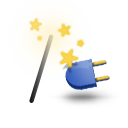
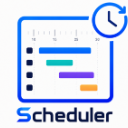
fix: UnrealGame打包编译修复 + DSL全量同步
- SSchedulerTrackTitle.h: 补全 Slate widget 头文件(SImage/STextBlock/SButton/Layout)
- SchedulerSubsystem.h: 显式 include Layout/Margin.h
- USchedulerRuler.cpp: include Engine/World.h(UWorld完整类型)
- USchedulerWidget.cpp: GetPaletteCategory 添加 WITH_EDITOR 守卫
- DSL: 删除废弃 ASchedulerTaskPool / 更新目录结构 / 补全 Playhead+TrackPanel
- DSL: DeleteTask→DestroyTask / 更新文件路径 / 添加打包验证记录
- .gitignore: 新增 Build/ 忽略规则
- 蓝图资产同步

diff --git a/Plugins/Scheduler/Source/Scheduler/Public/UI/Track/SSchedulerTrackTitle.h b/Plugins/Scheduler/Source/Scheduler/Public/UI/Track/SSchedulerTrackTitle.h
@@ -1,6 +1,10 @@
 #pragma once
 
 #include "CoreMinimal.h"
+#include "Layout/Margin.h"
+#include "Widgets/Images/SImage.h"
+#include "Widgets/Input/SButton.h"
+#include "Widgets/Text/STextBlock.h"
 #include "Widgets/SCompoundWidget.h"
 
 /**

diff --git a/Plugins/Scheduler/Source/Scheduler/Private/UI/USchedulerWidget.cpp b/Plugins/Scheduler/Source/Scheduler/Private/UI/USchedulerWidget.cpp
@@ -10,10 +10,12 @@
 
 #define LOCTEXT_NAMESPACE "UMG"
 
+#if WITH_EDITOR
 const FText USchedulerWidget::GetPaletteCategory()
 {
 	return LOCTEXT("Scheduler", "Scheduler");
 }
+#endif
 
 TSharedRef<SWidget> USchedulerWidget::RebuildWidget()
 {

diff --git a/Plugins/Scheduler/Source/Scheduler/Private/UI/Ruler/USchedulerRuler.cpp b/Plugins/Scheduler/Source/Scheduler/Private/UI/Ruler/USchedulerRuler.cpp
@@ -1,6 +1,7 @@
 #include "UI/Ruler/USchedulerRuler.h"
 #include "UI/Ruler/SSchedulerRuler.h"
 #include "Core/SchedulerSubsystem.h"
+#include "Engine/World.h"
 
 TSharedRef<SWidget> USchedulerRuler::RebuildWidget()
 {

diff --git a/Plugins/Scheduler/Source/Scheduler/Public/Core/SchedulerSubsystem.h b/Plugins/Scheduler/Source/Scheduler/Public/Core/SchedulerSubsystem.h
@@ -2,6 +2,7 @@
 #pragma once
 
 #include "CoreMinimal.h"
+#include "Layout/Margin.h"
 #include "Subsystems/WorldSubsystem.h"
 #include "Task/SchedulerTask.h"
 #include "UI/Ruler/SchedulerRulerTypes.h"

diff --git a/SCHEDULER_DSL.md b/SCHEDULER_DSL.md
@@ -1,8 +1,62 @@
 # SchedulerPluginDev · 架构DSL
 
-> 更新：2026-06-06
+> 更新：2026-06-07
 > 用途：项目长久记忆，记录功能所有者、广播、接口与委托链
 > 维护规则：每次增删委托/接口/函数签名/UI控件后同步更新本文
+
+---
+
+## 插件类型
+
+| 属性 | 值 |
+|------|-----|
+| 类型 | **Runtime**（非 Editor-only） |
+| 依赖模块 | Core, CoreUObject, Engine, Slate, SlateCore, UMG, InputCore |
+| 打包 | ✅ UnrealEditor + UnrealGame 双目标通过 |
+
+---
+
+## 源码目录结构
+
+```
+Plugins/Scheduler/Source/Scheduler/
+├── Public/
+│   ├── Scheduler.h                    [模块入口]
+│   ├── Core/
+│   │   └── SchedulerSubsystem.h       [内核]
+│   ├── Task/
+│   │   ├── SchedulerTask.h            [任务数据]
+│   │   └── TaskInterface.h            [接口层]
+│   └── UI/
+│       ├── USchedulerWidget.h         [UMG总容器]
+│       ├── SSchedulerWidget.h         [Slate十字布局]
+│       ├── Playhead/
+│       │   └── SSchedulerPlayhead.h   [游标控件]
+│       ├── Ruler/
+│       │   ├── USchedulerRuler.h      [UMG刻度尺]
+│       │   ├── SSchedulerRuler.h      [Slate刻度尺]
+│       │   └── SchedulerRulerTypes.h  [刻度类型定义]
+│       └── Track/
+│           ├── SSchedulerTrackTitle.h [行标题控件]
+│           └── SSchedulerTrackBody.h  [行体控件]
+└── Private/
+    ├── Scheduler.cpp
+    ├── Core/
+    │   └── SchedulerSubsystem.cpp
+    ├── Task/
+    │   └── SchedulerTask.cpp
+    └── UI/
+        ├── USchedulerWidget.cpp
+        ├── SSchedulerWidget.cpp
+        ├── Playhead/
+        │   └── SSchedulerPlayhead.cpp
+        ├── Ruler/
+        │   ├── USchedulerRuler.cpp
+        │   └── SSchedulerRuler.cpp
+        └── Track/
+            ├── SSchedulerTrackTitle.cpp
+            └── SSchedulerTrackBody.cpp
+```
 
 ---
 
@@ -10,15 +64,17 @@
 
 ```
 Scheduler (插件模块)
-├── USchedulerSubsystem : UWorldSubsystem   [内核——时刻调度中心 + Task工厂/池]
+├── USchedulerSubsystem : UWorldSubsystem   [内核——时刻调度中心 + Task工厂/池 + Track池]
 ├── USchedulerTask : UObject                [任务数据单元——关键帧 + 时刻回调]
 │   └── FClipIndex : USTRUCT               [关键帧区间——LastIndex/NextIndex]
 ├── ITaskInterface / UTaskInterface         [接口层——Task通知Owner的唯一回调]
-├── ASchedulerTaskPool : AActor             [任务池——占位，已废弃，功能收敛至Subsystem]
 ├── USchedulerWidget : UWidget              [UI层——总容器，蓝图唯一暴露口]
 │   └── SSchedulerWidget : SCompoundWidget  [Slate——十字分割布局]
-└── USchedulerRuler : UWidget               [UI层——水平刻度尺，支持滚动/缩放/点击]
-    └── SSchedulerRuler : SCompoundWidget   [Slate——刻度绘制+输入处理]
+├── USchedulerRuler : UWidget               [UI层——水平刻度尺，支持滚动/缩放/点击]
+│   └── SSchedulerRuler : SCompoundWidget   [Slate——刻度绘制+输入处理]
+├── SSchedulerPlayhead : SCompoundWidget    [UI层——游标竖线 + 时间标签]
+├── SSchedulerTrackTitle : SCompoundWidget  [Track行——BodyLeft单行标题(箭头+文字+删除)]
+└── SSchedulerTrackBody : SCompoundWidget   [Track行——BodyRight单行体(Keyframe渲染)]
 ```
 
 ---
@@ -127,9 +183,11 @@ ITaskInterface::Execute_RemoveKeyframe(TaskOwner, Index);
 
 ## 内核层
 
-### USchedulerSubsystem —— 时刻调度中心 + Task 工厂/池
+### USchedulerSubsystem —— 时刻调度中心 + Task 工厂/池 + Track 池
 
-**定位：** 内核变量 `CurrentTime` 完全私有；Task 的创建、管理池、OnTimeChanged 绑定统一收敛于此。
+**定位：** 内核变量 `CurrentTime` 完全私有；Task 的创建、管理池、Track 控件创建、OnTimeChanged 绑定统一收敛于此。
+
+**文件：** `Public/Core/SchedulerSubsystem.h`
 
 ### FOnTimeChanged
 
@@ -170,7 +228,10 @@ CurrentTimeMinusMinus()
 | `CurrentTimePlusPlus()` | public, BlueprintCallable | Scheduler\|TimeChange | 前进1时刻 | 触发 OnTimeChanged |
 | `CurrentTimeMinusMinus()` | public, BlueprintCallable | Scheduler\|TimeChange | 后退1时刻，触底钳位0 | 条件触发 OnTimeChanged |
 | `CreateTask(FString, FString, UObject*)` | public, BlueprintCallable | Scheduler\|Task | 工厂创建 Task 并入池 | 绑定 OnTimeChanged |
-| `DeleteTask(USchedulerTask*)` | public, BlueprintCallable | Scheduler\|Task | 从 TaskMap 移除 Task，清理空分组 | 返回 bool，仅移除引用 |
+| `DestroyTask(USchedulerTask*)` | public, BlueprintCallable | Scheduler\|Task | 从 TaskMap/TrackMap 移除 Task + UI，清理空分组 | 触发 OnDestroy + GC |
+| `InitializeTrackContainers(...)` | public | — | Widget 初始化时注入 ScrollBox/SVerticalBox 引用 + 全部显示属性 | 补齐已有 TrackMap 中缺失控件 |
+| `SyncKeyframeState(...)` | public | — | 同步 Ruler 状态 + Keyframe 渲染参数到缓存 | 供 RefreshAllKeyframes 读取 |
+| `RefreshAllKeyframes()` | public | — | 遍历所有 TaskTrack → Body->RefreshKeyframes() | 重绘全部 Keyframe 面片 |
 
 **CreateTask 流程：**
 
@@ -183,21 +244,24 @@ NewObject<USchedulerTask>(TaskOwner)
   → return NewTask
 ```
 
-**DeleteTask 流程：**
+**DestroyTask 流程：**
 
 ```
 IsValid(Task) 门禁
-  → TaskMap.Find(TaskOwnerName) 查找分组
-  → OwnerTasks->Remove(Task) 移除
-  → 分组为空则 TaskMap.Remove(TaskOwnerName)
-  → return true（GC 自动回收 Task，委托自动解绑）
+  → TrackMap.Find(TaskOwnerName) + TaskMap.Find(TaskOwnerName)
+  → 匹配 FTaskTrackEntry.Task → DestroyTaskTrackWidgets → RemoveSlot
+  → OwnerTasks->Remove(Task)
+  → 分组为空 → DestroyOwnerTrackWidgets → TrackMap.Remove + TaskMap.Remove
+  → Task->OnDestroy() → 解绑 OnTimeChanged + ITaskInterface::Execute_DestroyTask + MarkAsGarbage
+  → return true
 ```
 
-**TaskMap：**
+**TaskMap / TrackMap：**
 
 | 属性 | 类型 | 说明 |
 |------|------|------|
 | `TaskMap` | `TMap<FString, TArray<USchedulerTask*>>` | 按 OwnerName 分组管理所有 Task |
+| `TrackMap` | `TMap<FString, FTrack>` | UI 池，与 TaskMap 键镜像，持有 Title/Body + 子 TaskTrack 列表 |
 
 ---
 
@@ -299,9 +363,11 @@ USchedulerSubsystem
 | Slot 名 | 位置 | 填充方式 |
 |------|------|------|
 | `HeadLeft` | 左上 | 蓝图 `Customize` 属性（UUserWidget 实例），或 C++ `.HeadLeft(...)` |
-| `HeadRight` | 右上 | `.HeadRight(SNew(SSchedulerRuler))` |
-| `BodyLeft` | 左下 | `.BodyLeft(SNew(...))`（预留） |
-| `BodyRight` | 右下 | `.BodyRight(SNew(...))`（预留） |
+| `HeadRight` | 右上 | `.HeadRight(MyRulerSlate)` — SSchedulerRuler |
+| `BodyLeft` | 左下 | `.BodyLeft(TitleScrollBox)` — 垂直滚动列表，容纳 SSchedulerTrackTitle 行 |
+| `BodyRight` | 右下 | `.BodyRight(BodyScrollBox)` — 垂直滚动列表，容纳 SSchedulerTrackBody 行 |
+
+> HeadRight 上方叠加 `SSchedulerPlayhead`（SOverlay 覆盖整个 Widget），竖线贯穿 HeadRight + BodyRight。
 
 **生命周期约束：**
 
@@ -399,6 +465,46 @@ Tick = ViewStartTick + Round(LocalX / EffectiveTickPixel)
 | `HandleSetCurrentTime(Tick)` | Broadcast OnClicked + `CachedSubsystem->SetCurrentTime(Tick)` |
 | `ScrollRuler()` | 绑定至 RefreshUI，Invalidate 刻度尺 |
 | `ZoomTickLevel(Delta)` | `ActiveLevelIndex -= Delta` → Invalidate |
+
+---
+
+### TrackPanel —— Owner/Task 轨道面板
+
+**定位：** BodyLeft + BodyRight 区的行列表，每行含 Title（名称+箭头+删除）和 Body（Keyframe 渲染面片）。由 Subsystem 直接管理增删，Widget 仅负责初始化注入容器。
+
+> 详细控件层级、数据结构(FTrack/FTaskTrackEntry)、增量流、折叠逻辑见 **[TRACKPANEL_DSL.md](TRACKPANEL_DSL.md)**。
+
+**蓝图属性（Track，均位于 USchedulerWidget）：**
+
+| 属性 | 类型 | 默认值 | 说明 |
+|------|------|------|------|
+| `TrackHeight` | float | 24 | 轨道行高 |
+| `OwnerTrackColor` | FLinearColor | (0.08,0.08,0.08) | OwnerTrack 背景色 |
+| `TaskTrackColor` | FLinearColor | (0.12,0.12,0.12) | TaskTrack 背景色 |
+| `TrackTextColor` | FLinearColor | (0.9,0.9,0.9) | 标题文字颜色 |
+| `TrackBorderColor` | FLinearColor | (0.2,0.2,0.2) | 行描边颜色 |
+| `TrackTitleMargin` | FMargin | (1,1,1,1) | Title 边框四边 |
+| `TrackBodyMargin` | FMargin | (1,1,0,1) | Body 边框（右=0） |
+| `TrackFontSize` | int32 | 10 | 标题字号 |
+
+**垂直滚动同步：** TitleScrollBox ↔ BodyScrollBox 双向 SetScrollOffset，`bIsScrollSyncing` 门禁防乒乓。
+
+---
+
+### Playhead —— 游标控件
+
+**定位：** SOverlay 覆盖整个 USchedulerWidget 的独立 Slate 控件，OnPaint 直接绘制竖线 + 时间标签。HitTestInvisible，不拦截鼠标事件。
+
+**文件：** `Public/UI/Playhead/SSchedulerPlayhead.h`
+
+| 属性 | 类型 | 默认值 | 说明 |
+|------|------|------|------|
+| `PlayheadWidth` | float | 2 | 竖线宽度 |
+| `PlayheadColor` | FLinearColor | Red | 竖线颜色 |
+| `PlayheadFontSize` | int32 | 8 | 时间标签字号 |
+| `PlayheadFontColor` | FLinearColor | Red | 时间标签颜色 |
+
+**更新链路：** `OnTimeChanged.AddDynamic → USchedulerWidget::UpdatePlayhead`，X 坐标 = `LeftSidebarWidth + (CurrentTime - ViewStartTick) * EffectiveTickPixel`，超出可见范围时 `SetVisibility(Collapsed)`。
 
 ---
 

diff --git a/TRACKPANEL_DSL.md b/TRACKPANEL_DSL.md
@@ -1,8 +1,8 @@
 # TrackPanel · 架构DSL
 
 > 更新：2026-06-07
-> 用途：Scheduler 插件架构设计与实现文档
-> 版本：v1.0（Owner/TaskTrack + Keyframe + Playhead 全部完成）
+> 用途：Scheduler 插件 Track/Keyframe/Playhead 架构设计与实现文档
+> 版本：v1.1（Playhead + Keyframe + 打包验证完成）
 
 ---
 
@@ -26,9 +26,11 @@ Scheduler (插件模块)
 ├── USchedulerTask : UObject                [任务数据——关键帧 + 时刻回调]
 ├── USchedulerWidget : UWidget              [UI层——总容器，蓝图唯一暴露口]
 │   └── SSchedulerWidget : SCompoundWidget  [Slate——十字分割布局]
-├── SSchedulerRuler : SCompoundWidget       [UI层——水平刻度尺]
-├── SSchedulerTrackTitle : SCompoundWidget  [Track行——BodyLeft单行标题]
-├── SSchedulerTrackBody : SCompoundWidget   [Track行——BodyRight单行体]
+├── USchedulerRuler : UWidget               [UI层——水平刻度尺UMG包装]
+├── SSchedulerRuler : SCompoundWidget       [UI层——水平刻度尺Slate实现]
+├── SSchedulerPlayhead : SCompoundWidget    [UI层——游标竖线 + 时间标签]
+├── SSchedulerTrackTitle : SCompoundWidget  [Track行——BodyLeft单行标题(箭头+文字+删除)]
+├── SSchedulerTrackBody : SCompoundWidget   [Track行——BodyRight单行体(Keyframe渲染)]
 ├── FTrack (struct)                         [OwnerTrack——Title+Body+子TaskTrack列表]
 └── FTaskTrackEntry (struct)                [TaskTrack行——Title+Body+Task指针]
 ```
@@ -39,10 +41,14 @@ Scheduler (插件模块)
 
 | 文件 | 说明 |
 |------|------|
-| `Public/UI/Track/SSchedulerTrackTitle.h` + `.cpp` | BodyLeft 区单行标题 Widget（箭头+文字+删除） |
-| `Public/UI/Track/SSchedulerTrackBody.h` + `.cpp` | BodyRight 区单行体 Widget |
 | `Public/Core/SchedulerSubsystem.h` + `.cpp` | FTrack / FTaskTrackEntry + TrackMap + 增量管理 |
 | `Public/UI/USchedulerWidget.h` + `.cpp` | 蓝图属性 + ScrollBox 容器 + 滚动同步 |
+| `Public/UI/Track/SSchedulerTrackTitle.h` + `.cpp` | BodyLeft 区单行标题 Widget（箭头+文字+删除） |
+| `Public/UI/Track/SSchedulerTrackBody.h` + `.cpp` | BodyRight 区单行体 Widget（Keyframe 渲染） |
+| `Public/UI/Playhead/SSchedulerPlayhead.h` + `.cpp` | 游标竖线 + 时间标签 |
+| `Public/UI/Ruler/SSchedulerRuler.h` + `.cpp` | 水平刻度尺 Slate 实现 |
+| `Public/UI/Ruler/USchedulerRuler.h` + `.cpp` | 刻度尺 UMG 包装 |
+| `Public/UI/Ruler/SchedulerRulerTypes.h` | FTickLevel + FSchedulerRulerStyle 类型 |
 
 ### 依赖资产
 
@@ -134,14 +140,18 @@ CreateTask(TaskName, OwnerName, Owner)
        若 Owner 已折叠 → SetVisibility(Collapsed)
 ```
 
-### DeleteTask
+### DestroyTask
 
 ```
-DeleteTask(Task)
+DestroyTask(Task)
   ├─ TaskMap[OwnerName].Remove(Task)
   ├─ 匹配 FTaskTrackEntry.Task → DestroyTaskTrackWidgets → RemoveSlot
-  └─ OwnerTasks 为空?
-       └─ DestroyOwnerTrackWidgets → RemoveSlot → TrackMap.Remove
+  ├─ OwnerTasks 为空?
+  │    └─ DestroyOwnerTrackWidgets → RemoveSlot → TrackMap.Remove
+  └─ Task->OnDestroy()
+       ├─ OnTimeChanged.RemoveDynamic
+       ├─ ITaskInterface::Execute_DestroyTask(TaskOwner)
+       └─ MarkAsGarbage()
 ```
 
 ### 折叠/展开
@@ -282,8 +292,17 @@ HitTestInvisible → 不拦截鼠标事件
 
 ---
 
+## 打包
+
+| 属性 | 值 |
+|------|-----|
+| 插件类型 | Runtime |
+| Editor 目标 | ✅ UnrealEditor-Win64-Development |
+| Game 目标 | ✅ UnrealGame-Win64-Development |
+| 已知坑位 | `.generated.h` 必须不带路径前缀；Editor PCH 隐式补全的头文件在 Game 构建中需显式 include |
+
 ## Phase 4 待实现
 
 - Keyframe 聚合算法
-- Keyframe 属性热更新修复
+- Keyframe 属性热更新修复（`[FIXME]` 标记位置）
 - 自定义画刷形（Circle/Triangle）